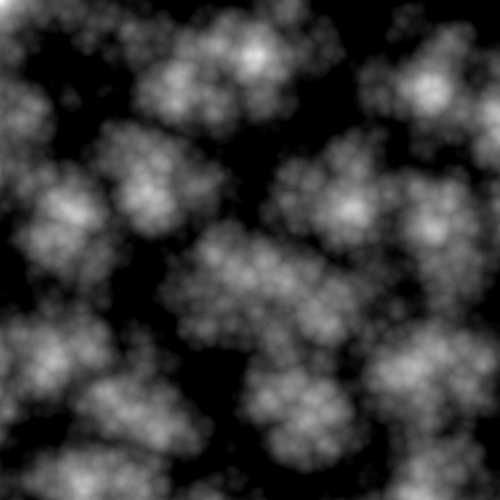
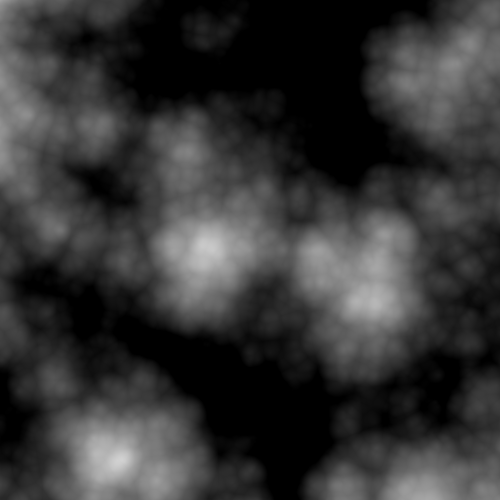
updated

diff --git a/src/main.rs b/src/main.rs
@@ -5,13 +5,14 @@ use glam::{Vec2, Vec3};
 use image::{ImageBuffer, Rgb};
 
 use crate::alg::fbm::fbm;
-use crate::alg::{mix_vec3, worley};
 use crate::alg::perlin::Perlin;
 use crate::alg::worley::Worley;
 use crate::alg::Noise;
+use crate::alg::{mix_vec3, worley};
 
 fn generate(
     res: u32,
+    seed: f32,
     offset: Vec2,
     noises: &mut Vec<impl Noise>,
     mut f: impl FnMut(u32, u32, Vec3),
@@ -21,7 +22,7 @@ fn generate(
             let p = Vec2::new(ix as f32, iy as f32);
             let uv = p / res as f32 + offset;
 
-            let col = fbm(uv, noises);
+            let col = fbm(uv, noises, seed);
 
             f(ix, iy, col);
         }
@@ -34,23 +35,21 @@ fn main() {
     let res = 500;
     let mut imgbuf: ImageBuffer<Rgb<u8>, Vec<_>> = image::ImageBuffer::new(res, res);
 
+    // Multiple noises for different octaves.
     let noises = &mut vec![
-        Perlin::new(4),
-        Perlin::new(8),
-        Perlin::new(16),
-        Perlin::new(32),
+        Worley::new(2),
+        Worley::new(4),
+        Worley::new(8),
+        Worley::new(16),
+        Worley::new(32),
     ];
 
-    let reverse_col = false;
+    let a = 1.0f32; // 1 - inverse col, 0 - keep the exact col.
 
-    generate(res, Vec2::new(0., 0.), noises, |ix, iy, col| {
+    generate(res, 11., Vec2::new(0., 0.), noises, |ix, iy, col| {
         let pixel = imgbuf.get_pixel_mut(ix, iy);
 
-        let rgb = if !reverse_col {
-            mix_vec3(0., 255., col)
-        } else {
-            mix_vec3(255., 0., col)
-        };
+        let rgb = mix_vec3(0., 255., (1. - col) * a + (1. - a) * col);
 
         *pixel = image::Rgb([rgb.x as u8, rgb.y as u8, rgb.z as u8]);
     });

diff --git a/src/alg/perlin.rs b/src/alg/perlin.rs
@@ -17,7 +17,7 @@ impl Perlin {
 }
 
 impl Noise for Perlin {
-    fn noise(&mut self, uv: Vec2) -> Vec3 {
+    fn noise(&mut self, uv: Vec2, seed: f32) -> Vec3 {
         let s_uv = uv * self.scale as f32;
 
         let grid_id = s_uv.floor();
@@ -30,10 +30,10 @@ impl Noise for Perlin {
         let br = grid_id + Vec2::new(1.0, 1.0);
         let bl = grid_id + Vec2::new(0.0, 1.0);
 
-        let grad_tl = rand(tl);
-        let grad_tr = rand(tr);
-        let grad_br = rand(br);
-        let grad_bl = rand(bl);
+        let grad_tl = rand(tl, seed);
+        let grad_tr = rand(tr, seed);
+        let grad_br = rand(br, seed);
+        let grad_bl = rand(bl, seed);
 
         let uv_to_tl = grid_uv - Vec2::new(0.0, 0.0);
         let uv_to_tr = grid_uv - Vec2::new(1.0, 0.0);

diff --git a/src/alg/worley.rs b/src/alg/worley.rs
@@ -1,5 +1,5 @@
-use glam::{Vec2, Vec3};
 use crate::alg::{rand, Noise};
+use glam::{Vec2, Vec3};
 
 pub struct Worley {
     scale: u32,
@@ -12,7 +12,7 @@ impl Worley {
 }
 
 impl Noise for Worley {
-    fn noise(&mut self, uv: Vec2) -> Vec3 {
+    fn noise(&mut self, uv: Vec2, seed: f32) -> Vec3 {
         let st = uv * self.scale as f32;
 
         let current_cell = st.floor();
@@ -23,7 +23,7 @@ impl Noise for Worley {
             for nx in -1..=1 {
                 let offset_cell = Vec2::new(nx as f32, ny as f32);
 
-                let point = (rand(current_cell + offset_cell)).abs();
+                let point = ((rand(current_cell + offset_cell, seed)) + 1.) * 0.5;
 
                 let diff = (current_cell + offset_cell + point) - st;
 

diff --git a/src/alg/mod.rs b/src/alg/mod.rs
@@ -16,7 +16,7 @@ pub fn mix_f32(start: f32, stop: f32, a: f32) -> f32 {
     start * (1. - a) + stop * a
 }
 
-pub fn rand(p: Vec2) -> Vec2 {
+pub fn rand(p: Vec2, seed: f32) -> Vec2 {
     let p = p + 0.02;
     let x = p.dot(Vec2::new(123.4, 234.5));
     let y = p.dot(Vec2::new(234.5, 345.6));
@@ -25,10 +25,10 @@ pub fn rand(p: Vec2) -> Vec2 {
     noise = Vec2::new(f32::sin(noise.x), f32::sin(noise.y));
     noise = noise * 43758.5453;
 
-    noise = Vec2::new(f32::sin(noise.x), f32::sin(noise.y));
+    noise = Vec2::new(f32::sin(noise.x + seed), f32::sin(noise.y + seed));
     return noise * 1.01;
 }
 
 pub trait Noise {
-    fn noise(&mut self, uv: Vec2) -> Vec3;
+    fn noise(&mut self, uv: Vec2, seed: f32) -> Vec3;
 }

diff --git a/src/alg/fbm.rs b/src/alg/fbm.rs
@@ -2,13 +2,13 @@ use glam::{Vec2, Vec3};
 
 use crate::alg::Noise;
 
-pub fn fbm(v: Vec2, noises: &mut Vec<impl Noise>) -> Vec3 {
+pub fn fbm(v: Vec2, noises: &mut Vec<impl Noise>, seed: f32) -> Vec3 {
     let mut sum = Vec3::ZERO;
     let mut amplitude = 1.0;
     let len = noises.len() as f32;
 
     for n in noises {
-        sum += n.noise(v) * amplitude;
+        sum += n.noise(v, seed) * amplitude;
         amplitude *= 0.5;
     }
     sum

diff --git a/README.md b/README.md
@@ -1,11 +1,11 @@
 ## Worley noise image generation
 
-### FBM with 4 octaves
+### FBM with 5 octaves
 
 ![](./worley_fbm4.png)
 
 ## Perlin noise image generation
 
-### FBM with 4 octaves
+### FBM with 5 octaves
 
 ![](./perlin_fbm4.png)
